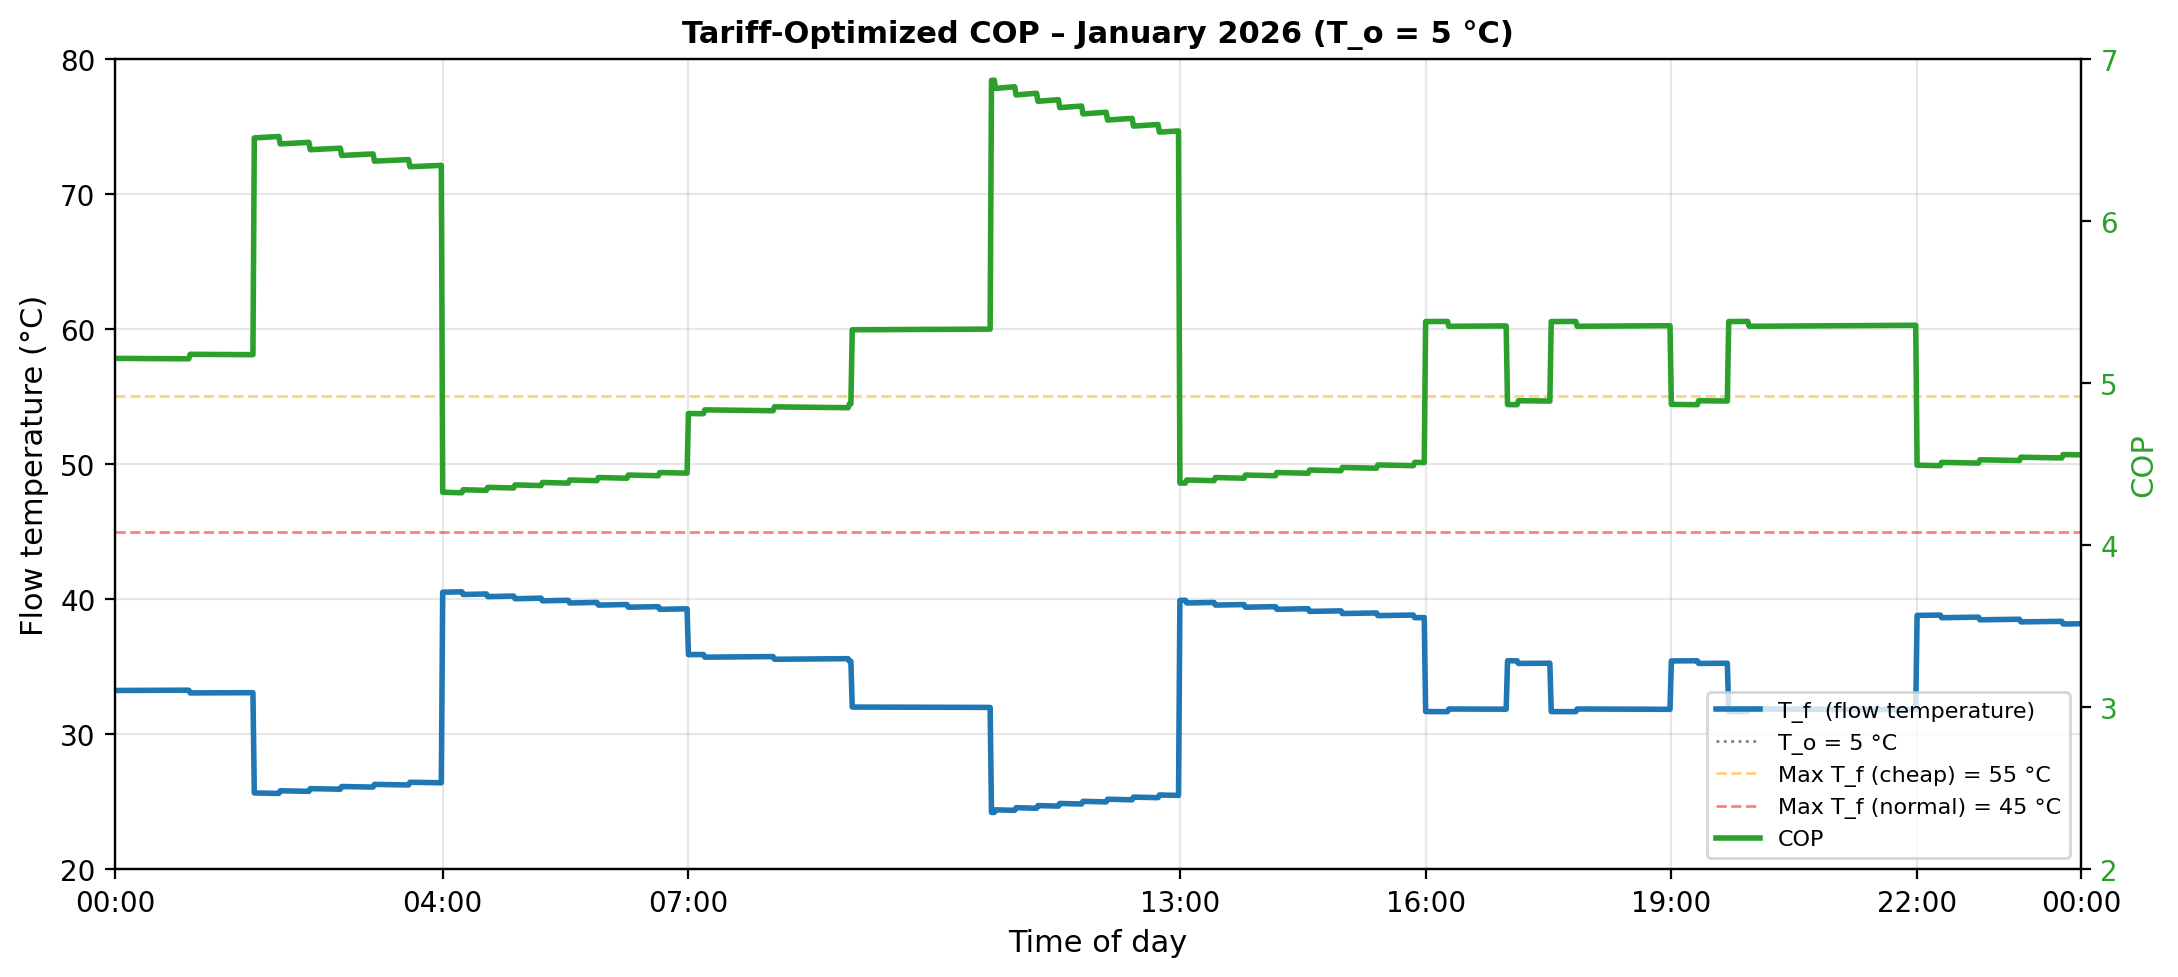
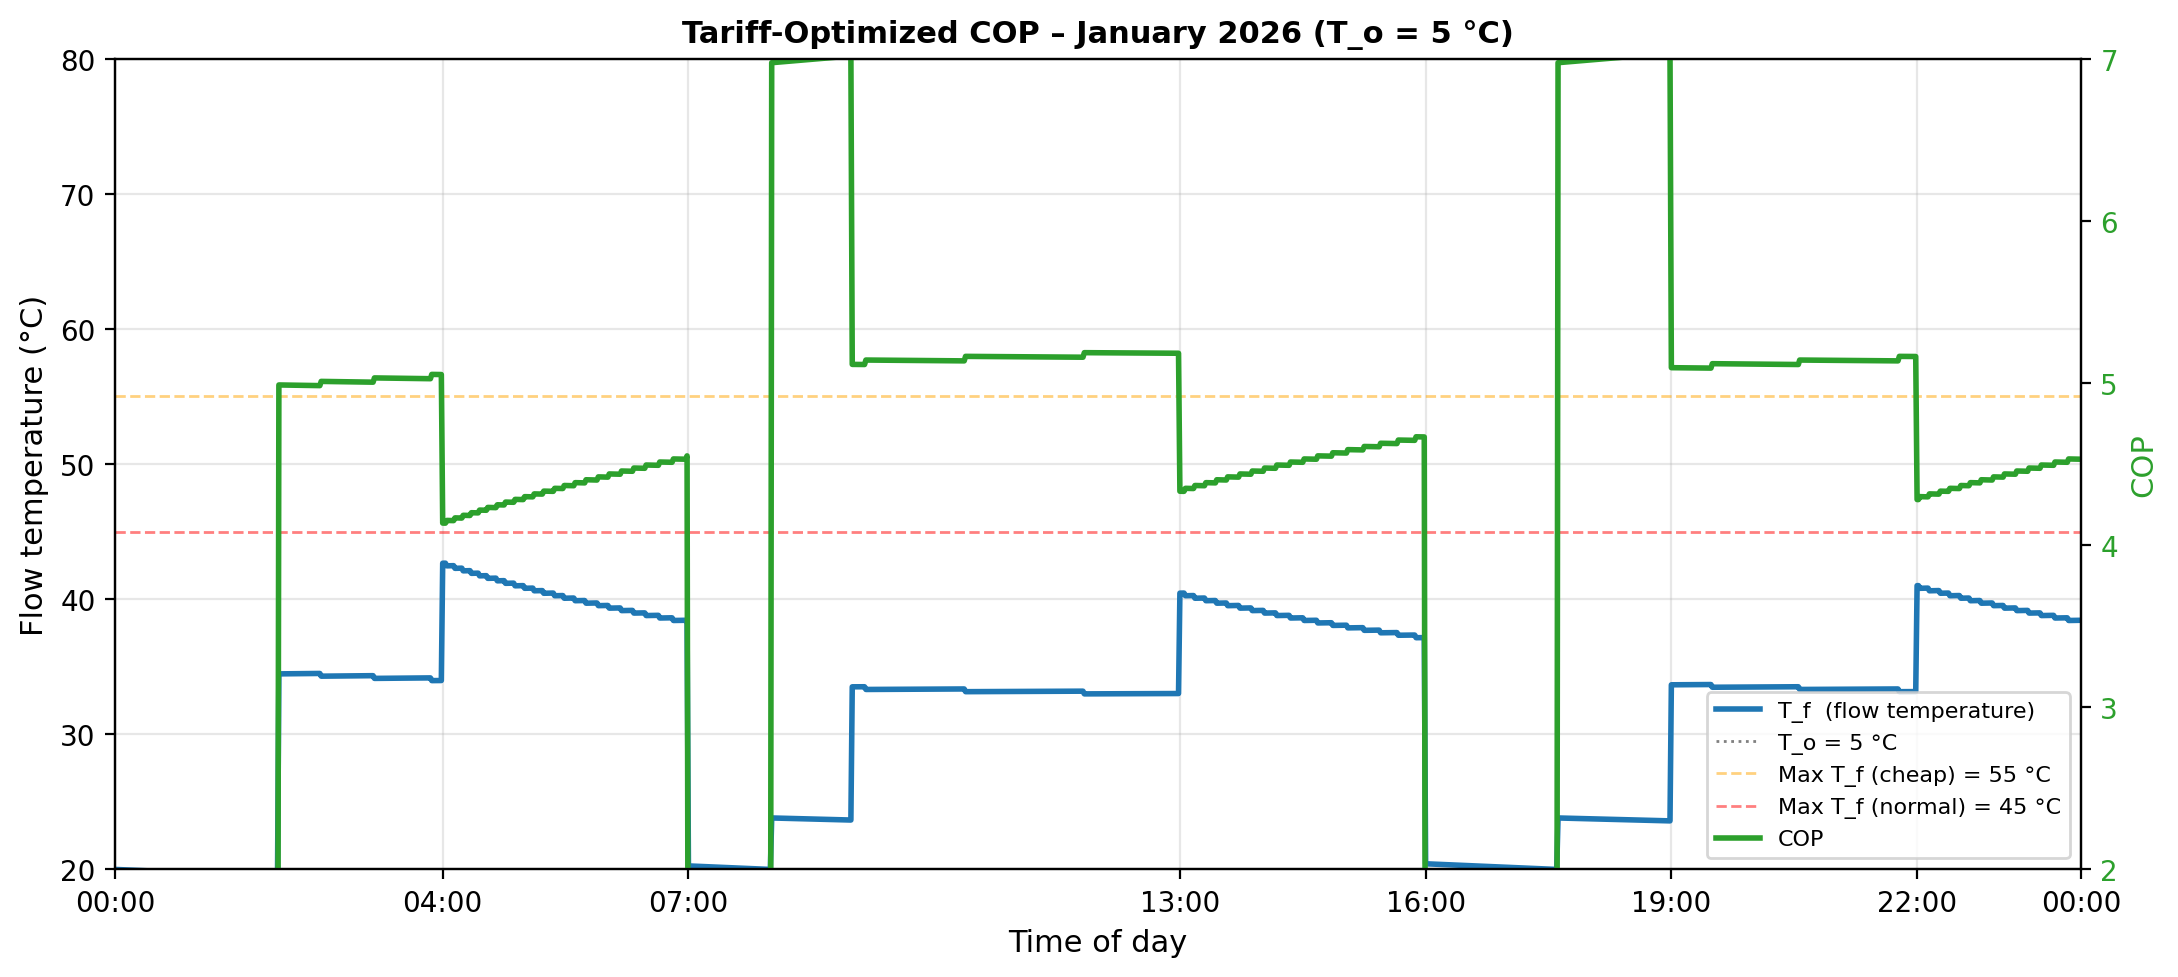
Fix tariff based optimisation

diff --git a/src/heat_pump_cost/simulate_tariff_optimized.py b/src/heat_pump_cost/simulate_tariff_optimized.py
@@ -127,15 +127,13 @@ def _tariff_optimized_controller(
     current_price = get_electricity_price(t_hours)
     in_cheap_period = is_cheap_period(t_hours)
     
-    # Look ahead to find cheap and expensive periods
-    t_sample_points = np.linspace(t_hours, t_hours + lookahead_hours, 20)
-    future_prices = [get_electricity_price(t) for t in t_sample_points]
-    avg_future_price = np.mean(future_prices)
-    min_future_price = np.min(future_prices)
+    # Normalize time to 0-24 range
+    t_h_mod = t_hours % 24
     
-    # Determine if we're in a cheap period relative to near future
-    is_cheap_now = in_cheap_period or (current_price < avg_future_price * 0.9)
-    is_expensive_now = current_price > avg_future_price * 1.3
+    # Identify specific tariff periods
+    # Cosy periods: 22:00-00:00, 04:00-07:00, 13:00-16:00
+    # Peak period: 16:00-19:00
+    is_peak_period = (16.0 <= t_h_mod < 19.0)
     
     # Set flow temperature limit based on tariff period
     T_flow_max = T_FLOW_MAX_CHEAP if in_cheap_period else T_FLOW_MAX_NORMAL
@@ -143,27 +141,70 @@ def _tariff_optimized_controller(
     # Base heat loss at current temp
     Q_loss = h * (T_i - T_o)
     
-    # Determine target temperature based on tariff
-    if is_cheap_now:
-        # Cheap period: aim for upper comfort bound to store thermal energy
-        T_target = T_max
-    elif is_expensive_now:
-        # Expensive period: aim for lower comfort bound to minimize heating
-        T_target = T_min
+    # Strategy: Aggressive cost optimization
+    # 1. Pre-heat during cheap periods to ~19.5°C
+    # 2. Coast after cheap periods end - minimal heating
+    # 3. During expensive peak (16:00-19:00): almost no heating, let temp drop
+    # 4. During normal periods: moderate heating only if needed
+    
+    if in_cheap_period:
+        # CHEAP COSY PERIOD: Pre-heat aggressively to store thermal energy
+        T_target = 19.5  # Upper bound for pre-heating
+        K_p = 1200.0  # Aggressive gain to reach target quickly
+        Q_ff = h * (T_target - T_o)
+        Q_fb = K_p * (T_target - T_i)
+        Q_r = max(0, Q_ff + Q_fb)
+        
+        # Don't overshoot - if already at target, back off
+        if T_i >= T_target:
+            Q_r = min(Q_r, Q_loss * 1.1)
+        elif T_i >= T_target - 0.3:
+            Q_r = min(Q_r, Q_loss * 1.5)
+            
+    elif is_peak_period:
+        # EXPENSIVE PEAK (16:00-19:00): Minimize heating drastically
+        # Let temperature drop - rely on thermal mass from earlier pre-heating
+        # Only provide minimal heating if temperature drops too low
+        if T_i > 18.0:
+            # Above 18°C: No heating at all, coast on thermal mass
+            Q_r = 0.0
+        elif T_i > 17.5:
+            # 17.5-18°C: Minimal heating to slow the drop
+            Q_r = Q_loss * 0.5  # Half of heat loss
+        else:
+            # Below 17.5°C: Prevent excessive drop
+            Q_r = Q_loss * 0.8
+            
     else:
-        # Normal period: aim for middle of comfort range
-        T_target = (T_min + T_max) / 2
-    
-    # Feed-forward + proportional control
-    K_p = 500.0  # W/K
-    Q_ff = h * (T_target - T_o)
-    Q_fb = K_p * (T_target - T_i)
-    Q_r = max(0, Q_ff + Q_fb)
-    
-    # During expensive periods, cap power aggressively if above minimum temp
-    if is_expensive_now and T_i >= T_min:
-        # Only provide heat loss compensation, no pre-heating
-        Q_r = min(Q_r, Q_loss * 1.1)
+        # STANDARD RATE PERIODS: Moderate heating
+        # After cheap periods end, coast on thermal mass
+        # Only heat if temperature drops below comfort
+        
+        # Check if we just exited a cheap period (within 1 hour after)
+        just_after_cosy = (
+            (7.0 <= t_h_mod < 9.0) or   # After morning cosy (07:00-09:00)
+            (0.0 <= t_h_mod < 2.0)       # After night cosy (00:00-02:00)
+        )
+        
+        if just_after_cosy:
+            # Coast period: minimal heating, let thermal mass carry
+            if T_i > 18.5:
+                Q_r = 0.0  # No heating needed
+            elif T_i > 18.0:
+                Q_r = Q_loss * 0.6  # Light heating
+            else:
+                Q_r = Q_loss * 1.0  # Compensate losses
+        else:
+            # Standard periods not adjacent to cosy: maintain moderate comfort
+            T_target = 18.5  # Conservative target
+            K_p = 600.0  # Moderate gain
+            Q_ff = h * (T_target - T_o)
+            Q_fb = K_p * (T_target - T_i)
+            Q_r = max(0, Q_ff + Q_fb)
+            
+            # Don't overshoot  
+            if T_i >= T_target:
+                Q_r = min(Q_r, Q_loss * 1.1)
     
     # Minimum baseline to prevent excessive cooling
     Q_min = 500.0  # W

diff --git a/operations-dynamic.md b/operations-dynamic.md
@@ -106,21 +106,21 @@ Suppose electricity does not incur the same cost throughout the day, but rather 
 ![Octopus Cosy Tariff](assets/octopus_cosy_tariff.png)
 *Figure: Octopus Energy Cosy tariff structure showing three rate periods throughout the day.*
 
-The tariff structure creates an economic incentive to shift heating load from the evening peak (16:00–19:00) to the cheaper periods. With a dynamic model of the house thermal response, a cost-optimising controller can exploit this price variation by using the building's thermal mass as a "battery", pre-heating with higher flow temperatures during cheap periods and coasting through expensive ones. The optimisation strategy maintains comfort bounds (17–20°C acceptable range throughout) while minimising cost:
+The tariff structure creates an economic incentive to shift heating load from the evening peak (16:00–19:00) to the cheaper periods. With a dynamic model of the house thermal response, a cost-optimising controller can exploit this price variation by using the building's thermal mass as a "battery", aggressively pre-heating during cheap periods and coasting through expensive ones. The optimisation strategy accepts some temperature variation (18–19.5°C range) to minimise cost:
 
-- **During cheap periods** (04:00–07:00, 13:00–16:00, 22:00–00:00): Heat at 2.4–2.7 kW with flow temperatures up to 38–41°C (capped at 55°C). This accepts lower COP temporarily to maximise thermal energy stored in the building fabric while electricity is cheap.
-- **During peak period** (16:00–19:00): Reduce power to 1.4–1.9 kW, relying on stored thermal energy as temperature gradually drifts toward the lower bound.
-- **During standard periods**: Maintain moderate heating (1.5–2.0 kW) with flow temperatures around 38–45°C to balance efficiency and comfort.
+- **During cheap periods** (04:00–07:00, 13:00–16:00, 22:00–00:00): Heat aggressively at ~3.0 kW with flow temperatures up to 40–43°C (capped at 55°C). Pre-heat to 19.5°C to maximise thermal energy stored in the building fabric while electricity is cheap.
+- **During peak period** (16:00–19:00): Minimal or no heating (0–0.5 kW), relying entirely on stored thermal energy as temperature drops from 19.5°C to 18.5°C. The 40.9-hour thermal time constant means the house cools slowly enough that comfort is maintained.
+- **During standard periods**: Light heating (1.5–1.7 kW) after cheap periods end, coasting on thermal mass with flow temperatures around 33–40°C to balance efficiency and comfort.
 
-The controller looks ahead 4 hours to anticipate rate changes and begins pre-heating before cheap periods start. Temperature remains comfortably within 18.5–20°C for most of the day, briefly touching 18°C during transitions. Total heat delivered is **41.3 kWh/day** (higher than the 36.7 kWh from flat-rate optimisation, due to increased losses from maintaining warmer average temperatures).
+The controller exploits the building's slow thermal response: aggressive pre-heating during 14.53p periods stores energy, which carries through the 51.68p peak with almost no heating required. Temperature varies between 18.5–19.5°C throughout the day, remaining comfortable while minimising cost. Total heat delivered is **37.2 kWh/day** (similar to the 36.7 kWh from flat-rate optimisation).
 
 ![Tariff-Optimised Operation](assets/tariff_optimized_operation.png)
-*Figure: Tariff-optimised heat pump operation, heat = 41.3 kWh/day, electricity = 8.5 kWh/day, £2.15/day.*
+*Figure: Tariff-optimised heat pump operation, heat = 37.2 kWh/day, electricity = 7.8 kWh/day, £1.76/day.*
 
-The flow temperature and COP profiles reveal the trade-off between efficiency and cost optimisation. During cheap-rate pre-heating periods, flow temperatures rise to 38–41°C (capped at 55°C) with COP between 4.8–5.0. During the peak period, the controller minimises heating power, allowing lower flow temperatures around 30–35°C maintaining COP of 5.0–5.4. During standard rate periods, moderate flow temperatures of 32–36°C achieve COP around 4.9–5.1. The overall seasonal COP of **4.85** is lower than the flat-tariff smooth operation (5.18) due to the intensive pre-heating strategy, but this is compensated by buying more energy during cheap periods.
+The flow temperature and COP profiles reveal the trade-off between efficiency and cost optimisation. During cheap-rate pre-heating periods, flow temperatures rise to 40–43°C (capped at 55°C) with COP around 4.5–5.1. During the peak period (16:00–19:00), heating is minimal or zero—the controller relies entirely on thermal mass, resulting in very low flow temperatures (20–25°C) when any heating occurs. During standard rate periods after cosy periods end, light heating with flow temperatures of 33–40°C achieves COP around 5.0–5.5. The overall seasonal COP of **4.74** is slightly lower than the flat-tariff smooth operation (5.18) due to the intensive pre-heating strategy, but this is more than compensated by buying most energy during cheap periods at 14.53p/kWh instead of 27.69p/kWh.
 
 ![Tariff-Optimised COP](assets/tariff_optimized_cop.png)
-*Figure: Flow temperatures up to 41°C during cheap periods store maximum energy despite lower instantaneous COP.*
+*Figure: Flow temperatures up to 43°C during cheap periods store maximum energy; minimal heating during expensive peak period.*
 
 It is worth noting that the Octopus Cosy tariff used to offer a cheap rate as low as **8p/kWh**, at which point the economics would have been much more attractive. At today's cosy rates of 14.53p/kWh, the benefit is modest. Other time-of-use tariffs, such as **Octopus Agile**, use near-real-time spot pricing that can fall very low during periods of high renewable generation, or spike sharply at times of grid stress. A cost-optimising controller with access to day-ahead prices could exploit those deeper discounts, but the outcome is inherently variable and harder to predict.
 
@@ -147,11 +147,11 @@ Across the various heating strategies simulated, several key insights emerge abo
   Heat: 36.7 kWh/day, Electricity: 7.1 kWh/day, SCOP: 5.18, Cost: £1.96 energy  
   Continuous baseline heating, flow temperatures 25–36°C, superior comfort and COP.
 
-- **Heat pump with tariff-optimised operation (Octopus Cosy)**: £2.15/day (−11% vs gas)  
-  Heat: 41.3 kWh/day, Electricity: 8.5 kWh/day, SCOP: 4.85, Cost: £2.15 energy  
-  Pre-heating during cheap periods (14.53p), flow temperatures up to 41°C when electricity is cheap.
+- **Heat pump with tariff-optimised operation (Octopus Cosy)**: £1.76/day (−27% vs gas)  
+  Heat: 37.2 kWh/day, Electricity: 7.8 kWh/day, SCOP: 4.74, Cost: £1.76 energy  
+  Aggressive pre-heating during cheap periods (14.53p), minimal/no heating during expensive peak (51.68p).
 
-The simple thermostat heat pump operation (mimicking a gas boiler) is the worst performer with an energy cost of £3.11/day, **29% more expensive than gas heating**. This demonstrates that heat pumps cannot be operated like gas boilers. In contrast, the smooth continuous heat pump operation achieves the lowest cost of all scenarios at £1.96/day, **19% cheaper than gas heating** while providing superior comfort. This demonstrates that heat pumps can beat gas economics when operated intelligently with optimised flow temperatures and predictive control. The tariff-optimised strategy on Octopus Cosy is **11% cheaper than gas**.
+The simple thermostat heat pump operation (mimicking a gas boiler) is the worst performer with an energy cost of £3.11/day, **29% more expensive than gas heating**. This demonstrates that heat pumps cannot be operated like gas boilers. In contrast, the smooth continuous heat pump operation achieves £1.96/day, **19% cheaper than gas heating** while providing superior comfort. This demonstrates that heat pumps can beat gas economics when operated intelligently with optimised flow temperatures and predictive control. The tariff-optimised strategy on Octopus Cosy achieves the best result at £1.76/day, **27% cheaper than gas and 10% cheaper than the flat-rate smooth operation**, by aggressively exploiting the price differential between cheap (14.53p) and peak (51.68p) periods.
 
 
 # Conclusion
